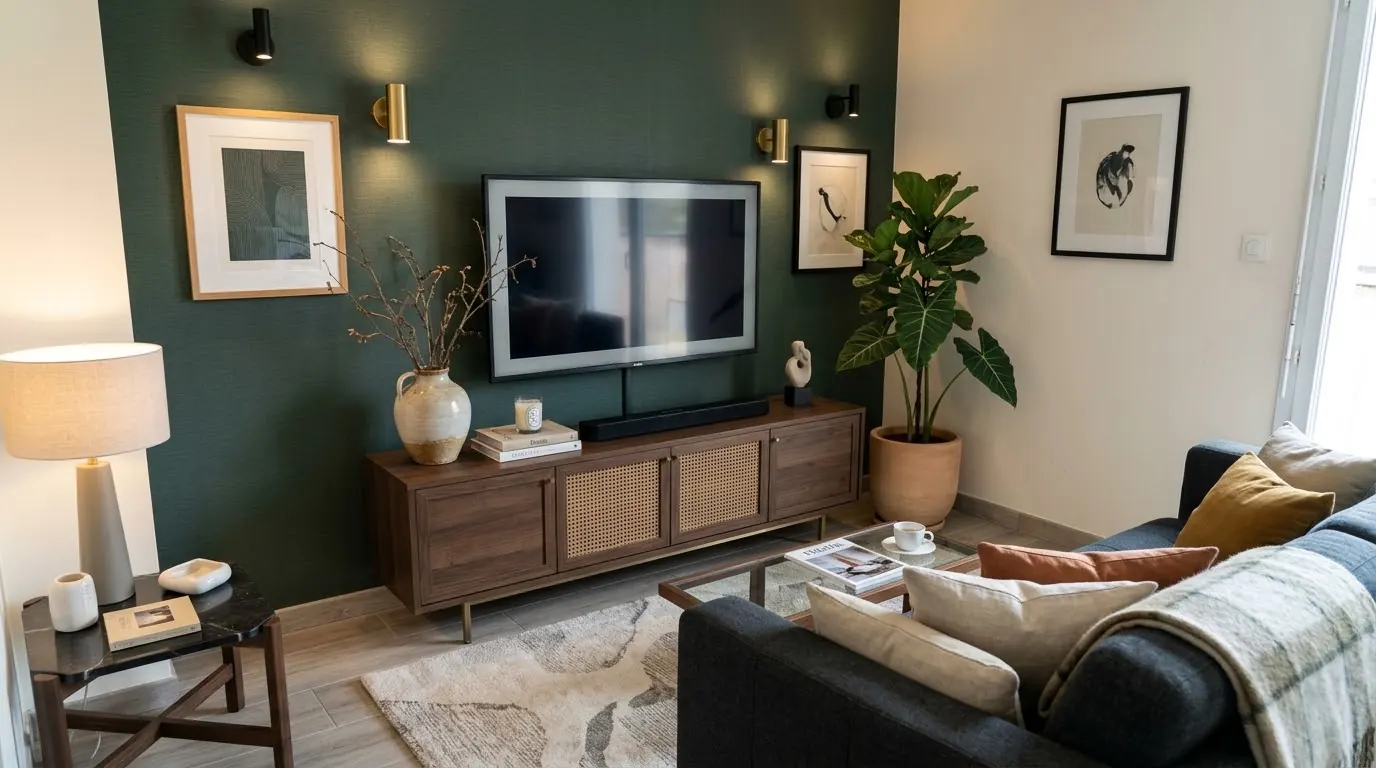
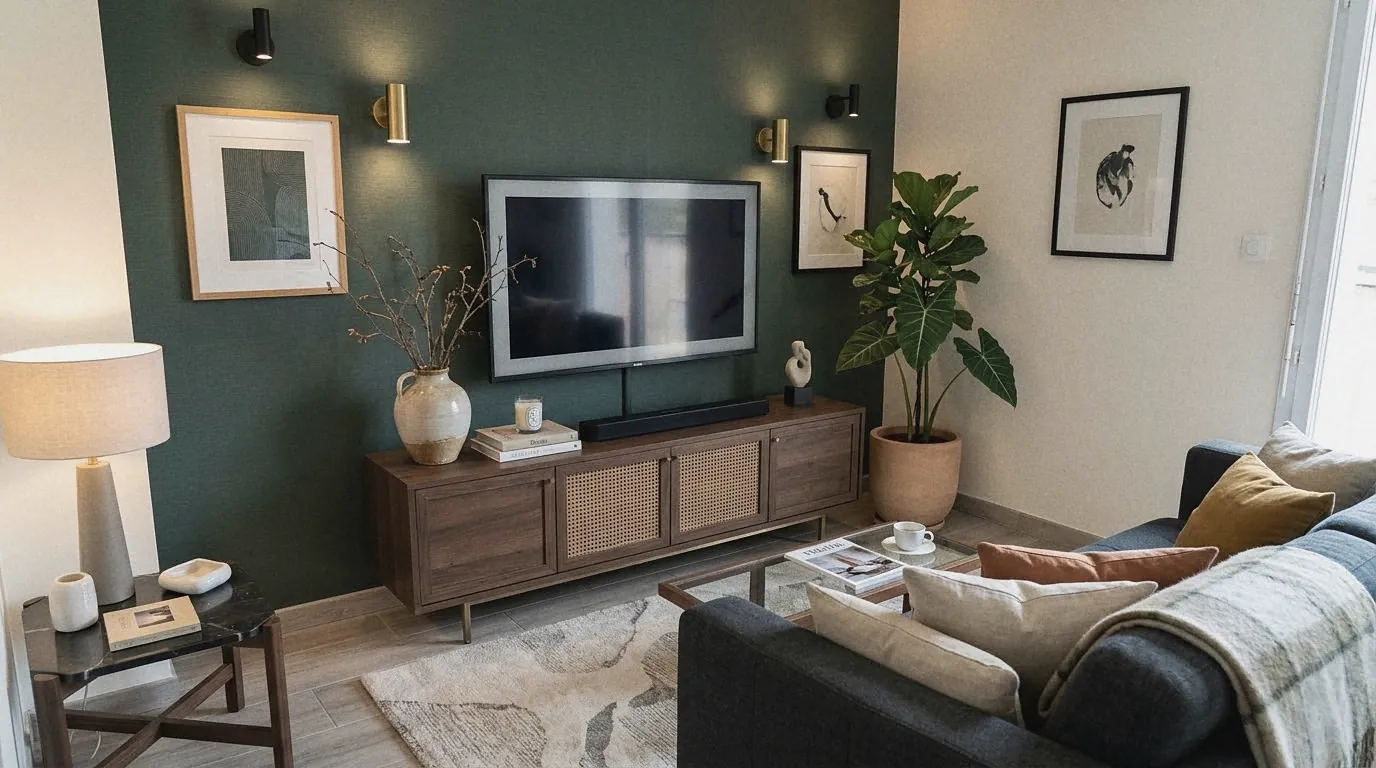
Réalisations : retouche plus naturelle des images (couleurs, contraste, grain) + mention d'illustration
Claude-Session: https://claude.ai/code/session_01NQPNwNZVJSLcY55KzjQmrv

Changed region(s): [[0.625, 0.3125, 0.6562, 0.3438]]

diff --git a/css/style.css b/css/style.css
@@ -395,3 +395,4 @@ ul, ol { margin: 0; padding: 0; list-style: none; }
 .ba figcaption { display: flex; flex-direction: column; padding: 1rem .25rem 0; }
 .ba figcaption strong { color: var(--ink); font-size: 1.05rem; }
 .ba figcaption span { color: var(--muted); font-size: .92rem; }
+.section-head .ba-note { font-size: .8rem; color: var(--muted); margin: -.5rem 0 0; font-style: italic; }

diff --git a/index.html b/index.html
@@ -178,6 +178,7 @@
           <p class="eyebrow">Réalisations</p>
           <h2>Avant, après : la différence YESOA</h2>
           <p>Faites glisser le curseur pour comparer.</p>
+          <p class="ba-note">Images d'illustration</p>
         </header>
         <div class="ba-grid">
           <figure class="ba ba-featured">
